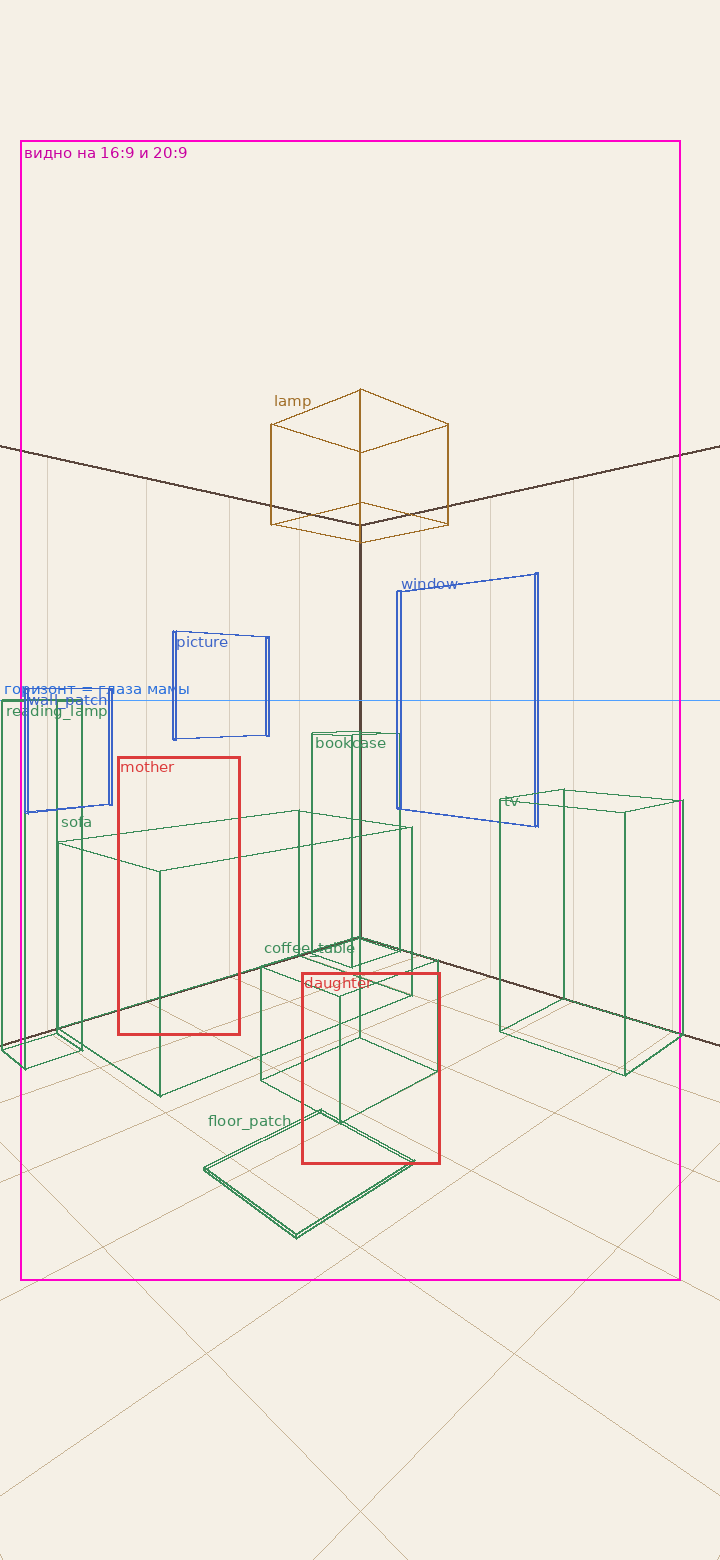
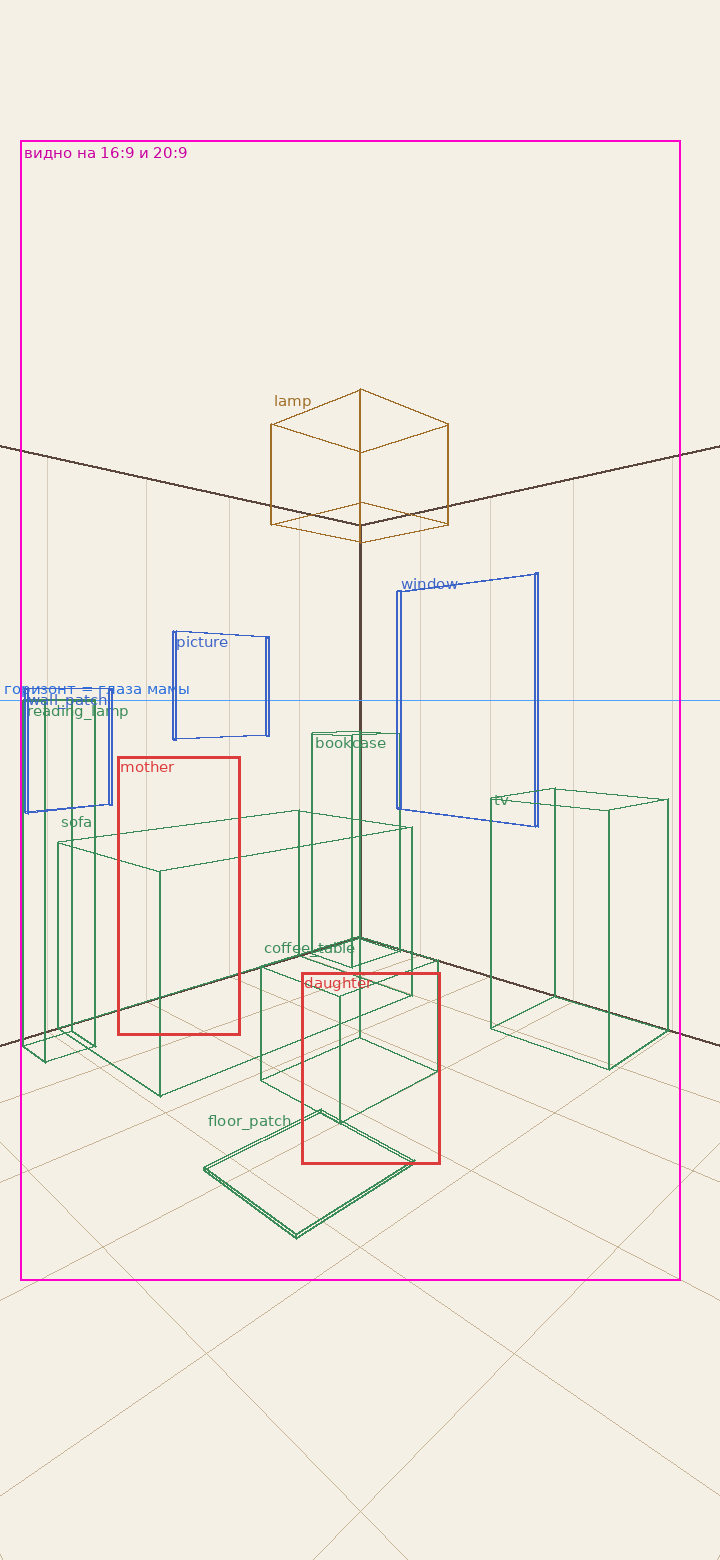
Layout plan: room fits the safe band, targets clear of the family
Per ChatGPT review: the plan tables are the only size source; room
corner at x=340, bed 1.7 m (foot no longer past x=680), window and
floor holes clear of the family pair, stricter safe-band check
(x 20-680), small shifts in kitchen, bath and living. Merged ChatGPT
living props and interior review (f323dc5, 2a44981).

Claude-Session: https://claude.ai/code/session_01F17z6WKxwFhPVzmgaJQsyh

diff --git a/tools/room_planner.py b/tools/room_planner.py
@@ -28,18 +28,18 @@ S2 = math.sqrt(2.0)
 # person (фигура: ширина, высота).
 ROOMS = {
     "room": {
-        "title": "Маленькая комната", "size": [3.0, 3.0],
+        "title": "Маленькая комната", "size": [3.0, 3.0], "cx": 340,
         "items": [
-            {"id": "window", "kind": "wall", "wall": "L", "at": [0.3, 1.2], "h": [0.85, 2.1], "note": "цель room_window: рама, стекло, подоконник 0,85"},
-            {"id": "curtains", "kind": "wall", "wall": "L", "at": [0.18, 1.35], "h": [0.75, 2.3], "note": "шторы по краям окна"},
-            {"id": "chest", "kind": "floor", "L": [0.4, 1.15], "R": [0.0, 0.42], "h": [0.0, 0.8], "note": "комод под окном"},
-            {"id": "nightstand", "kind": "floor", "L": [0.0, 0.4], "R": [0.02, 0.42], "h": [0.0, 0.55], "note": "тумбочка с лампой в углу у изголовья"},
-            {"id": "bed", "kind": "floor", "L": [0.0, 0.9], "R": [0.45, 2.2], "h": [0.0, 0.5], "note": "цель room_bed: кровать вдоль правой стены, изголовье к углу, матрас 0,5, спинки 0,9"},
+            {"id": "window", "kind": "wall", "wall": "L", "at": [0.2, 1.0], "h": [0.85, 2.1], "note": "цель room_window: рама, стекло, подоконник 0,85"},
+            {"id": "curtains", "kind": "wall", "wall": "L", "at": [0.08, 1.12], "h": [0.75, 2.3], "note": "шторы по краям окна"},
+            {"id": "chest", "kind": "floor", "L": [0.22, 0.98], "R": [0.0, 0.42], "h": [0.0, 0.8], "note": "комод под окном (низ за Витой — доступ кнопкой)"},
+            {"id": "nightstand", "kind": "floor", "L": [0.0, 0.4], "R": [0.0, 0.3], "h": [0.0, 0.55], "note": "тумбочка с лампой в углу у изголовья"},
+            {"id": "bed", "kind": "floor", "L": [0.0, 0.9], "R": [0.32, 2.0], "h": [0.0, 0.5], "note": "цель room_bed: кровать 1,7 м вдоль правой стены, изголовье к углу, матрас 0,5, спинки 0,9"},
             {"id": "wall_patch", "kind": "wall", "wall": "R", "at": [1.0, 1.5], "h": [1.05, 1.55], "note": "цель room_wall: порванные обои над кроватью"},
-            {"id": "toybox", "kind": "floor", "L": [0.95, 1.4], "R": [1.85, 2.2], "h": [0.0, 0.35], "note": "ящик с игрушками у изножья"},
+            {"id": "toybox", "kind": "floor", "L": [1.0, 1.42], "R": [1.62, 1.95], "h": [0.0, 0.35], "note": "ящик с игрушками у изножья"},
             {"id": "rug", "kind": "floor", "L": [1.2, 2.15], "R": [0.9, 1.85], "h": [0.0, 0.01], "note": "круглый коврик ~1 м"},
-            {"id": "floor_holes", "kind": "floor", "L": [1.55, 1.95], "R": [0.45, 0.8], "h": [0.0, 0.01], "note": "цель room_floor (одна из дыр; остальные — такие же пятна по полу)"},
-            {"id": "family_pair", "kind": "person", "L": 2.15, "R": 1.5, "size": [0.9, 1.65], "note": "мама и Вита держатся за руки на коврике — картинки настроения family_mood0..3 (в первой комнате — «приехали»)"},
+            {"id": "floor_holes", "kind": "floor", "L": [1.12, 1.52], "R": [1.08, 1.42], "h": [0.0, 0.01], "note": "цель room_floor (одна из дыр; остальные — такие же пятна по полу)"},
+            {"id": "family_pair", "kind": "person", "L": 2.07, "R": 1.33, "size": [0.9, 1.65], "note": "мама и Вита держатся за руки на коврике — картинки настроения family_mood0..3 (в первой комнате — «приехали»)"},
         ],
     },
     "kitchen": {
@@ -47,10 +47,10 @@ ROOMS = {
         "items": [
             {"id": "fridge", "kind": "floor", "L": [0.0, 0.62], "R": [0.02, 0.62], "h": [0.0, 1.5], "note": "цель kitchen_fridge: невысокий старый холодильник в углу"},
             {"id": "sink", "kind": "floor", "L": [0.0, 0.6], "R": [0.65, 1.45], "h": [0.0, 0.88], "note": "цель kitchen_sink: тумба с мойкой вдоль правой стены"},
-            {"id": "stove", "kind": "floor", "L": [0.0, 0.6], "R": [1.48, 2.05], "h": [0.0, 0.88], "note": "цель kitchen_stove: плита рядом с мойкой"},
+            {"id": "stove", "kind": "floor", "L": [0.0, 0.6], "R": [1.48, 2.0], "h": [0.0, 0.88], "note": "цель kitchen_stove: плита рядом с мойкой"},
             {"id": "kettle", "kind": "floor", "L": [0.12, 0.34], "R": [1.6, 1.85], "h": [0.88, 1.1], "note": "чайник на конфорке"},
             {"id": "cabinets", "kind": "wall", "wall": "R", "at": [0.65, 1.45], "h": [1.45, 2.05], "depth": 0.32, "note": "цель kitchen_cabinets: навесной шкафчик над мойкой"},
-            {"id": "shelf_jars", "kind": "wall", "wall": "R", "at": [1.5, 2.05], "h": [1.5, 1.72], "depth": 0.2, "note": "полка с банками над плитой"},
+            {"id": "shelf_jars", "kind": "wall", "wall": "R", "at": [1.5, 1.98], "h": [1.5, 1.72], "depth": 0.2, "note": "полка с банками над плитой"},
             {"id": "window", "kind": "wall", "wall": "L", "at": [0.9, 1.9], "h": [0.9, 2.05], "note": "окно на левой стене (новое)"},
             {"id": "clock", "kind": "wall", "wall": "L", "at": [0.3, 0.6], "h": [1.75, 2.05], "note": "часы между углом и окном"},
             {"id": "table", "kind": "floor", "L": [0.95, 1.85], "R": [0.1, 0.8], "h": [0.0, 0.75], "note": "обеденный стол под окном"},
@@ -70,7 +70,7 @@ ROOMS = {
             {"id": "mirror", "kind": "wall", "wall": "L", "at": [0.45, 0.85], "h": [1.2, 1.7], "note": "зеркало над раковиной"},
             {"id": "towel", "kind": "wall", "wall": "L", "at": [0.98, 1.2], "h": [1.0, 1.55], "note": "полотенце на крючке"},
             {"id": "toilet", "kind": "floor", "L": [1.3, 1.7], "R": [0.0, 0.68], "h": [0.0, 0.78], "note": "цель bath_toilet: унитаз с бачком у левой стены"},
-            {"id": "basket", "kind": "floor", "L": [1.8, 2.15], "R": [0.05, 0.4], "h": [0.0, 0.42], "note": "корзина для белья"},
+            {"id": "basket", "kind": "floor", "L": [1.72, 2.05], "R": [0.05, 0.38], "h": [0.0, 0.42], "note": "корзина для белья"},
             {"id": "tiles_hole", "kind": "wall", "wall": "R", "at": [1.1, 1.5], "h": [0.7, 1.05], "note": "цель bath_tiles: отбитая плитка над ванной"},
             {"id": "shelf", "kind": "wall", "wall": "R", "at": [0.6, 1.1], "h": [1.5, 1.62], "depth": 0.15, "note": "полочка над ванной"},
             {"id": "duck", "kind": "floor", "L": [0.55, 0.7], "R": [1.6, 1.75], "h": [0.58, 0.68], "note": "уточка на бортике"},
@@ -85,12 +85,12 @@ ROOMS = {
         "title": "Гостиная", "size": [3.6, 3.6],
         "items": [
             {"id": "bookcase", "kind": "floor", "L": [0.02, 0.42], "R": [0.02, 0.36], "h": [0.0, 1.3], "note": "невысокий книжный шкаф в углу"},
-            {"id": "reading_lamp", "kind": "floor", "L": [1.98, 2.22], "R": [0.06, 0.3], "h": [0.0, 1.5], "note": "торшер у ближнего края дивана — место для чтения"},
+            {"id": "reading_lamp", "kind": "floor", "L": [1.92, 2.14], "R": [0.08, 0.3], "h": [0.0, 1.5], "note": "торшер у ближнего края дивана — место для чтения"},
             {"id": "sofa", "kind": "floor", "L": [0.5, 1.95], "R": [0.0, 0.88], "h": [0.0, 0.85], "note": "цель living_sofa: диван спинкой к левой стене, сиденье 0,45"},
             {"id": "picture", "kind": "wall", "wall": "L", "at": [0.75, 1.35], "h": [1.3, 1.85], "note": "картина над диваном (покупка)"},
             {"id": "wall_patch", "kind": "wall", "wall": "L", "at": [1.7, 2.1], "h": [1.0, 1.55], "note": "цель living_wall: сырое пятно/порванные обои"},
             {"id": "window", "kind": "wall", "wall": "R", "at": [0.35, 1.3], "h": [0.85, 2.15], "note": "НОВОЕ окно на правой стене"},
-            {"id": "tv", "kind": "floor", "L": [0.0, 0.55], "R": [1.45, 2.05], "h": [0.0, 1.05], "note": "цель living_tv: тумба 0,5 + телевизор, повёрнут к дивану (экран смотрит по диагонали на зрителя)"},
+            {"id": "tv", "kind": "floor", "L": [0.0, 0.55], "R": [1.4, 1.98], "h": [0.0, 1.05], "note": "цель living_tv: тумба 0,5 + телевизор, повёрнут к дивану (экран смотрит по диагонали на зрителя)"},
             {"id": "coffee_table", "kind": "floor", "L": [1.05, 1.6], "R": [1.05, 1.5], "h": [0.0, 0.45], "note": "столик перед диваном (цветок — покупка)"},
             {"id": "lamp", "kind": "hang", "L": [1.05, 1.55], "R": [1.05, 1.55], "h": [2.2, 2.6], "note": "цель living_lamp: люстра"},
             {"id": "floor_patch", "kind": "floor", "L": [1.6, 2.1], "R": [1.4, 1.85], "h": [0.0, 0.01], "note": "цель living_floor: вздувшийся паркет"},
@@ -106,7 +106,7 @@ CX = 360     # угол посередине экрана
 def project(room, L, R, h):
     z = D0 - (L + R) / S2
     x = (R - L) / S2
-    return (CX + FOCAL * x / z, HORIZON + FOCAL * (EYE - h) / z), z
+    return (room.get("cx", CX) + FOCAL * x / z, HORIZON + FOCAL * (EYE - h) / z), z
 
 
 def box_points(it):
@@ -165,7 +165,7 @@ def table(name):
         r = rect(room, it)
         cL = sum(it["L"]) / 2 if isinstance(it.get("L"), list) else it.get("L", 0)
         cR = sum(it["R"]) / 2 if isinstance(it.get("R"), list) else it.get("R", 0)
-        out = r[0] < 0 or r[0] + r[2] > W or r[1] < 0 or (it["kind"] != "hang" and r[1] + r[3] > SAFE[3])
+        out = r[0] < SAFE[0] or r[0] + r[2] > SAFE[2] or r[1] < 0 or (it["kind"] != "hang" and r[1] + r[3] > SAFE[3])
         if out:
             print("WARN %s/%s вне видимой области: %s" % (name, it["id"], r), file=sys.stderr)
         rows.append({"id": it["id"], "rect": r, "png2x": [r[2] * 2, r[3] * 2],

diff --git a/docs/LAYOUT_PLAN.md b/docs/LAYOUT_PLAN.md
@@ -25,7 +25,7 @@
 | видимая область | x 20–680, y 140–1280 (видно и на 16:9, и на 20:9) — всё важное внутри |
 | камера | глаз 1,5 м, смотрит на дальний угол, 45° к обеим стенам |
 | горизонт | y = 700 (глаза стоящей мамы всегда на этой линии) |
-| угол комнаты | вертикаль x = 360; пол в углу y = 938, потолок (2,6 м) в углу y = 526 |
+| угол комнаты | вертикаль x = 360 (в маленькой комнате x = 340); пол в углу y = 938, потолок (2,6 м) в углу y = 526 |
 | стены у краёв экрана | пол y = 1046, потолок y = 447 (x = 0 и x = 720); видно ~2,2 м каждой стены |
 | потолок/пол | линии от угла к краям — прямые; левая и правая стены симметричны |
 
@@ -57,7 +57,7 @@ y 724, у края 735. Фартук кухни 0,88–1,45 м: в углу y 79
 
 | комната | мама | Вита |
 |---|---|---|
-| маленькая комната | пара `family_mood0..3` остаётся (сюжет «приехали», настроение), но слева у коврика, 540 px | — |
+| маленькая комната | пара `family_mood0..3` остаётся (сюжет «приехали», настроение), слева на коврике, 503 px; окно и цели открыты, низ комода за Витой — доступ кнопкой | — |
 | кухня | у плиты, 3/4 спиной, лицо в профиль, мешает в кастрюле (новая поза) | сидит на стуле лицом к столу, 3/4 профиль влево (новая поза) |
 | ванная | стирает в тазу на табурете (есть `mother_bath`, масштаб 610 px) | на коленках у ванны с корабликом (есть `daughter_bath`) |
 | гостиная | сидит на диване у торшера с книгой (есть `mother_living`) | рисует на полу у столика (есть `daughter_living`) |
@@ -68,26 +68,26 @@ y 724, у края 735. Фартук кухни 0,88–1,45 м: в углу y 79
 ## Маленькая комната
 | предмет | rect x,y,w,h | PNG 2x | px/м | ракурс | что это |
 |---|---|---|---|---|---|
-| window | 198, 585, 130, 240 | 260×480 | 158 | плоско на левой стене: вид 45° справа | цель room_window: рама, стекло, подоконник 0,85 |
-| curtains | 173, 543, 170, 305 | 340×610 | 158 | плоско на левой стене: вид 45° справа | шторы по краям окна |
-| chest | 206, 818, 156, 188 | 312×376 | 184 | у левой стены: фасад смотрит вправо-вниз, видны фасад и правый бок, 45° | комод под окном |
-| nightstand | 315, 851, 95, 118 | 190×236 | 168 | в углу: видны два фасада под 45° | тумбочка с лампой в углу у изголовья |
-| bed | 298, 869, 420, 254 | 840×508 | 211 | у правой стены: фасад смотрит влево-вниз, видны фасад и левый бок, 45° | цель room_bed: кровать вдоль правой стены, изголовье к углу, матрас 0,5, спинки 0,9 |
-| wall_patch | 487, 690, 86, 101 | 172×202 | 158 | плоско на правой стене: вид 45° слева | цель room_wall: порванные обои над кроватью |
-| toybox | 453, 1002, 159, 182 | 318×364 | 289 | посреди комнаты, стороны параллельны стенам: ребро к зрителю, 45° | ящик с игрушками у изножья |
-| rug | 114, 1036, 374, 211 | 748×422 | 279 | посреди комнаты, стороны параллельны стенам: ребро к зрителю, 45° | круглый коврик ~1 м |
-| floor_holes | 106, 1029, 129, 60 | 258×120 | 239 | посреди комнаты, стороны параллельны стенам: ребро к зрителю, 45° | цель room_floor (одна из дыр; остальные — такие же пятна по полу) |
-| family_pair | 62, 651, 295, 540 | 590×1080 | 327 | фигура | мама и Вита держатся за руки на коврике — картинки настроения family_mood0..3 (в первой комнате — «приехали») |
+| window | 210, 589, 111, 232 | 222×464 | 158 | плоско на левой стене: вид 45° справа | цель room_window: рама, стекло, подоконник 0,85 |
+| curtains | 191, 549, 143, 293 | 286×586 | 158 | плоско на левой стене: вид 45° справа | шторы по краям окна |
+| chest | 213, 814, 152, 182 | 304×364 | 179 | у левой стены: фасад смотрит вправо-вниз, видны фасад и правый бок, 45° | комод под окном (низ за Витой — доступ кнопкой) |
+| nightstand | 293, 850, 83, 113 | 166×226 | 167 | в углу: видны два фасада под 45° | тумбочка с лампой в углу у изголовья |
+| bed | 261, 866, 391, 237 | 782×474 | 205 | у правой стены: фасад смотрит влево-вниз, видны фасад и левый бок, 45° | цель room_bed: кровать 1,7 м вдоль правой стены, изголовье к углу, матрас 0,5, спинки 0,9 |
+| wall_patch | 467, 690, 86, 101 | 172×202 | 158 | плоско на правой стене: вид 45° слева | цель room_wall: порванные обои над кроватью |
+| toybox | 379, 989, 143, 165 | 286×330 | 275 | посреди комнаты, стороны параллельны стенам: ребро к зрителю, 45° | ящик с игрушками у изножья |
+| rug | 94, 1036, 374, 211 | 748×422 | 279 | посреди комнаты, стороны параллельны стенам: ребро к зрителю, 45° | круглый коврик ~1 м |
+| floor_holes | 262, 1043, 130, 64 | 260×128 | 249 | посреди комнаты, стороны параллельны стенам: ребро к зрителю, 45° | цель room_floor (одна из дыр; остальные — такие же пятна по полу) |
+| family_pair | 43, 654, 275, 503 | 550×1006 | 305 | фигура | мама и Вита держатся за руки на коврике — картинки настроения family_mood0..3 (в первой комнате — «приехали») |
 
 ## Кухня
 | предмет | rect x,y,w,h | PNG 2x | px/м | ракурс | что это |
 |---|---|---|---|---|---|
 | fridge | 286, 700, 150, 288 | 300×576 | 174 | в углу: видны два фасада под 45° | цель kitchen_fridge: невысокий старый холодильник в углу |
 | sink | 367, 808, 197, 226 | 394×452 | 196 | у правой стены: фасад смотрит влево-вниз, видны фасад и левый бок, 45° | цель kitchen_sink: тумба с мойкой вдоль правой стены |
-| stove | 500, 824, 184, 256 | 368×512 | 224 | у правой стены: фасад смотрит влево-вниз, видны фасад и левый бок, 45° | цель kitchen_stove: плита рядом с мойкой |
+| stove | 500, 824, 173, 252 | 346×504 | 223 | у правой стены: фасад смотрит влево-вниз, видны фасад и левый бок, 45° | цель kitchen_stove: плита рядом с мойкой |
 | kettle | 554, 784, 74, 59 | 148×118 | 219 | посреди комнаты, стороны параллельны стенам: ребро к зрителю, 45° | чайник на конфорке |
 | cabinets | 403, 584, 161, 127 | 322×254 | 158 | плоско на правой стене: вид 45° слева | цель kitchen_cabinets: навесной шкафчик над мойкой |
-| shelf_jars | 552, 649, 132, 51 | 264×102 | 158 | плоско на правой стене: вид 45° слева | полка с банками над плитой |
+| shelf_jars | 552, 650, 116, 50 | 232×100 | 158 | плоско на правой стене: вид 45° слева | полка с банками над плитой |
 | window | 69, 580, 179, 251 | 358×502 | 158 | плоско на левой стене: вид 45° справа | окно на левой стене (новое) |
 | clock | 287, 604, 42, 54 | 84×108 | 158 | плоско на левой стене: вид 45° справа | часы между углом и окном |
 | table | 89, 840, 248, 241 | 496×482 | 215 | посреди комнаты, стороны параллельны стенам: ребро к зрителю, 45° | обеденный стол под окном |
@@ -106,7 +106,7 @@ y 724, у края 735. Фартук кухни 0,88–1,45 м: в углу y 79
 | mirror | 252, 664, 58, 90 | 116×180 | 158 | плоско на левой стене: вид 45° справа | зеркало над раковиной |
 | towel | 198, 690, 38, 105 | 76×210 | 158 | плоско на левой стене: вид 45° справа | полотенце на крючке |
 | toilet | 109, 840, 154, 218 | 308×436 | 214 | у левой стены: фасад смотрит вправо-вниз, видны фасад и правый бок, 45° | цель bath_toilet: унитаз с бачком у левой стены |
-| basket | 19, 932, 114, 140 | 228×280 | 230 | у левой стены: фасад смотрит вправо-вниз, видны фасад и правый бок, 45° | корзина для белья |
+| basket | 41, 928, 105, 134 | 210×268 | 225 | у левой стены: фасад смотрит вправо-вниз, видны фасад и правый бок, 45° | корзина для белья |
 | tiles_hole | 503, 784, 71, 77 | 142×154 | 158 | плоско на правой стене: вид 45° слева | цель bath_tiles: отбитая плитка над ванной |
 | shelf | 416, 677, 90, 23 | 180×46 | 158 | плоско на правой стене: вид 45° слева | полочка над ванной |
 | duck | 509, 887, 50, 36 | 100×72 | 235 | посреди комнаты, стороны параллельны стенам: ребро к зрителю, 45° | уточка на бортике |
@@ -120,12 +120,12 @@ y 724, у края 735. Фартук кухни 0,88–1,45 м: в углу y 79
 | предмет | rect x,y,w,h | PNG 2x | px/м | ракурс | что это |
 |---|---|---|---|---|---|
 | bookcase | 312, 732, 88, 235 | 176×470 | 168 | в углу: видны два фасада под 45° | невысокий книжный шкаф в углу |
-| reading_lamp | 3, 700, 79, 369 | 158×738 | 234 | посреди комнаты, стороны параллельны стенам: ребро к зрителю, 45° | торшер у ближнего края дивана — место для чтения |
+| reading_lamp | 24, 700, 72, 363 | 144×726 | 231 | посреди комнаты, стороны параллельны стенам: ребро к зрителю, 45° | торшер у ближнего края дивана — место для чтения |
 | sofa | 58, 811, 354, 285 | 708×570 | 207 | у левой стены: фасад смотрит вправо-вниз, видны фасад и правый бок, 45° | цель living_sofa: диван спинкой к левой стене, сиденье 0,45 |
 | picture | 173, 631, 96, 108 | 192×216 | 158 | плоско на левой стене: вид 45° справа | картина над диваном (покупка) |
 | wall_patch | 25, 689, 87, 125 | 174×250 | 158 | плоско на левой стене: вид 45° справа | цель living_wall: сырое пятно/порванные обои |
 | window | 398, 573, 141, 254 | 282×508 | 158 | плоско на правой стене: вид 45° слева | НОВОЕ окно на правой стене |
-| tv | 501, 790, 183, 286 | 366×572 | 222 | у правой стены: фасад смотрит влево-вниз, видны фасад и левый бок, 45° | цель living_tv: тумба 0,5 + телевизор, повёрнут к дивану (экран смотрит по диагонали на зрителя) |
+| tv | 491, 789, 177, 281 | 354×562 | 219 | у правой стены: фасад смотрит влево-вниз, видны фасад и левый бок, 45° | цель living_tv: тумба 0,5 + телевизор, повёрнут к дивану (экран смотрит по диагонали на зрителя) |
 | coffee_table | 261, 937, 177, 187 | 354×374 | 251 | посреди комнаты, стороны параллельны стенам: ребро к зрителю, 45° | столик перед диваном (цветок — покупка) |
 | lamp | 271, 390, 177, 153 | 354×306 | 251 | снизу-сбоку, по оси угла | цель living_lamp: люстра |
 | floor_patch | 205, 1110, 210, 128 | 420×256 | 311 | посреди комнаты, стороны параллельны стенам: ребро к зрителю, 45° | цель living_floor: вздувшийся паркет |
@@ -160,3 +160,6 @@ y 724, у края 735. Фартук кухни 0,88–1,45 м: в углу y 79
 проверка до/после ремонта на 16:9 и 20:9 со снимками. Непроверенное готовым не называем.
 
 Координаты — расчётные: после первого фона сверю его линии с расчётом и поправлю таблицы.
+Источник размеров — только таблицы этого файла (перегенерируются `room_planner.py`); все rect внутри
+безопасной полосы x 20–680, низ не ниже y 1280. Кровать в маленькой комнате 1,7 м (иначе изножье
+уходит за x 680).
